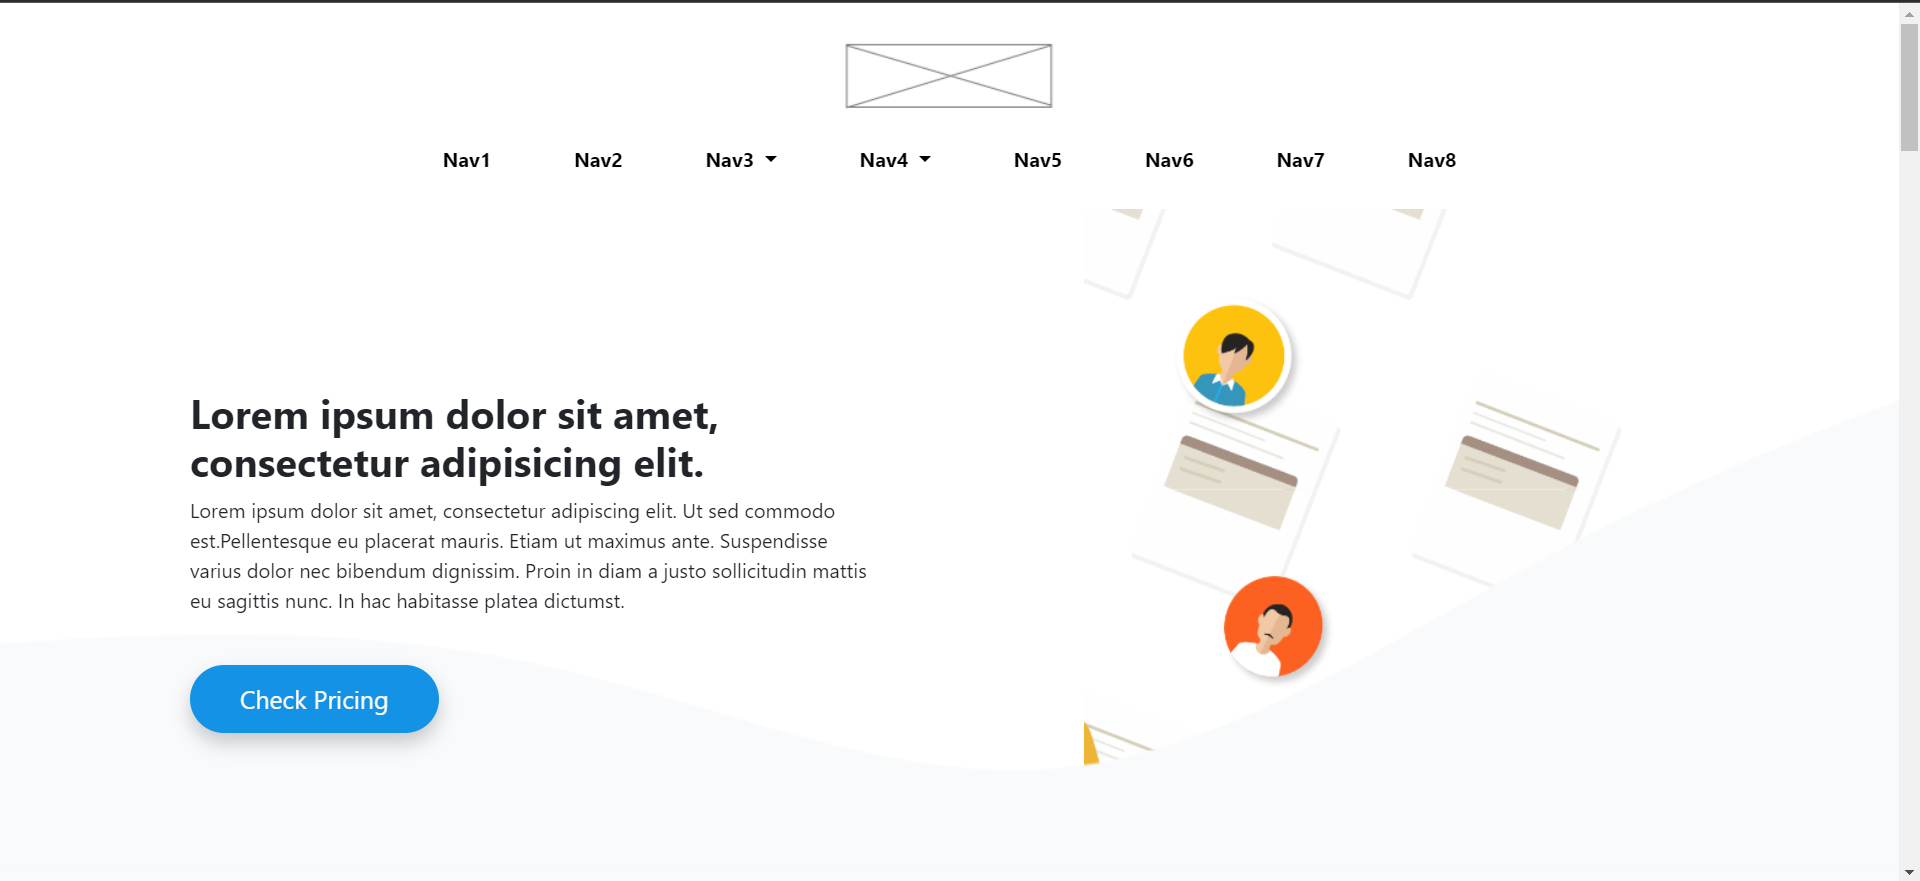
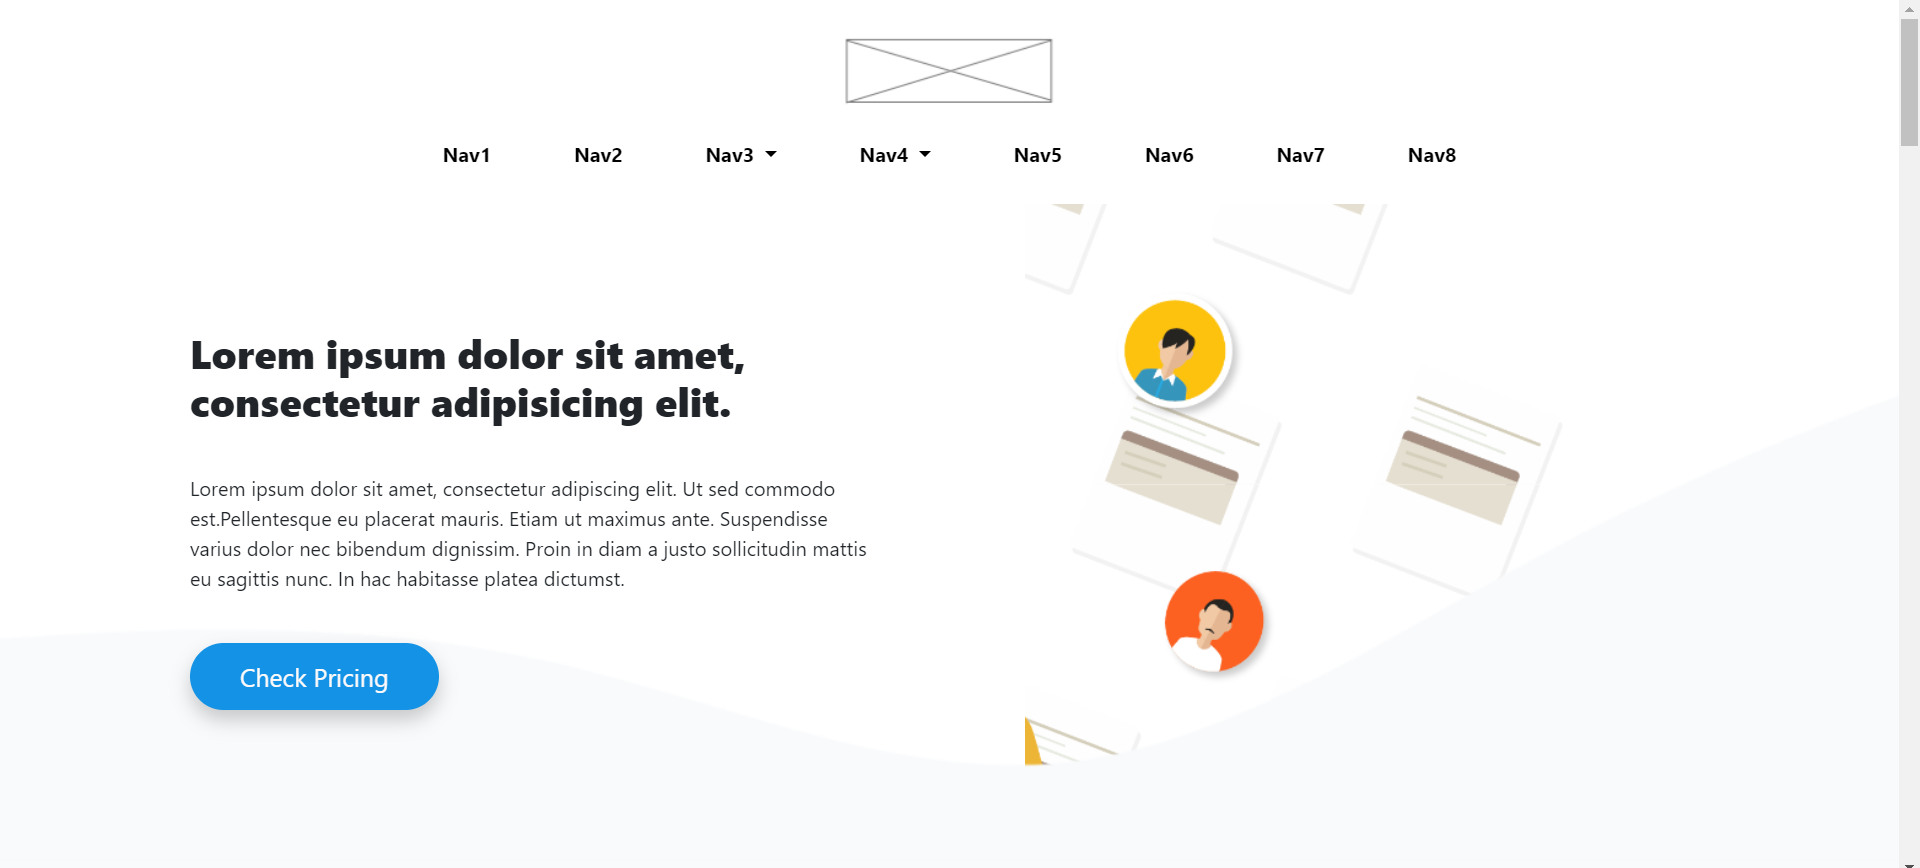
changes in hero section

diff --git a/style.css b/style.css
@@ -1,3 +1,5 @@
+@import url('https://fonts.googleapis.com/css2?family=Nunito+Sans:wght@300;400;500;600;700;800;900;1000&display=swap');
+
 * {
     margin: 0%;
     padding: 0%;
@@ -52,14 +54,17 @@
     margin: auto;
     justify-content: space-between;
     position: relative;
+    align-items: start;
 }
 .hero-left{
-    width: 45%;
+    width: 50%;
+}
+.hero-left>h2 {
+    font-weight: 800;
+    padding-top: 100px;
+    padding-bottom: 30px;
 }
 
-.hero-left>h2 {
-    font-weight: bolder;
-}
 
 .button {
     background: #1492E6;
@@ -308,6 +313,10 @@ border: 1px solid #707070;
         margin: auto;
         text-align: start;
     }
+    .hero-left>h2 {
+        padding: 0px;
+        padding-top: 20px;
+    }
   
     .hero-left,
     .hero-right {
@@ -382,7 +391,9 @@ border: 1px solid #707070;
     .section_5_items {
       flex-direction: column;
       align-items: center;
+      gap: 20px;
     }
+
     
   }
   
@@ -401,12 +412,21 @@ border: 1px solid #707070;
         width:350px;
         font-size: 14px;
     }
+    .hero-left>h2 {
+    padding: 0px;
+    padding-top: 20px;
+}
+.svg1{
+    position: absolute;
+    z-index: 1;
+    bottom: -50px;
+}
     
     .svg2{
         position: absolute;
         z-index: -1;
         bottom: -1250px;
-        height: 1800px;
+        height: 1750px;
     }
     .svg3{
         position: absolute;

diff --git a/index.html b/index.html
@@ -23,7 +23,7 @@
   </div>
   <div>
     <!-- Navbar -->
-    <nav data-aos="fade-down" class="navbar navbar-expand-lg navbar-light">
+    <nav data-aos="fade-down" style="width: 80%; margin: auto;" class="navbar navbar-expand-lg navbar-light">
       <button class="navbar-toggler" type="button" data-toggle="collapse" data-target="#navbarNav"
         aria-controls="navbarNav" aria-expanded="false" aria-label="Toggle navigation">
         <span class="navbar-toggler-icon"></span>
@@ -86,7 +86,7 @@
           <br>
           <button class="button">Check Pricing</button>
         </div>
-        <div class="">
+        <div class="hero-right">
           <img src="/assets/coverImage.png" alt="" width="500">
         </div>
       </div>
